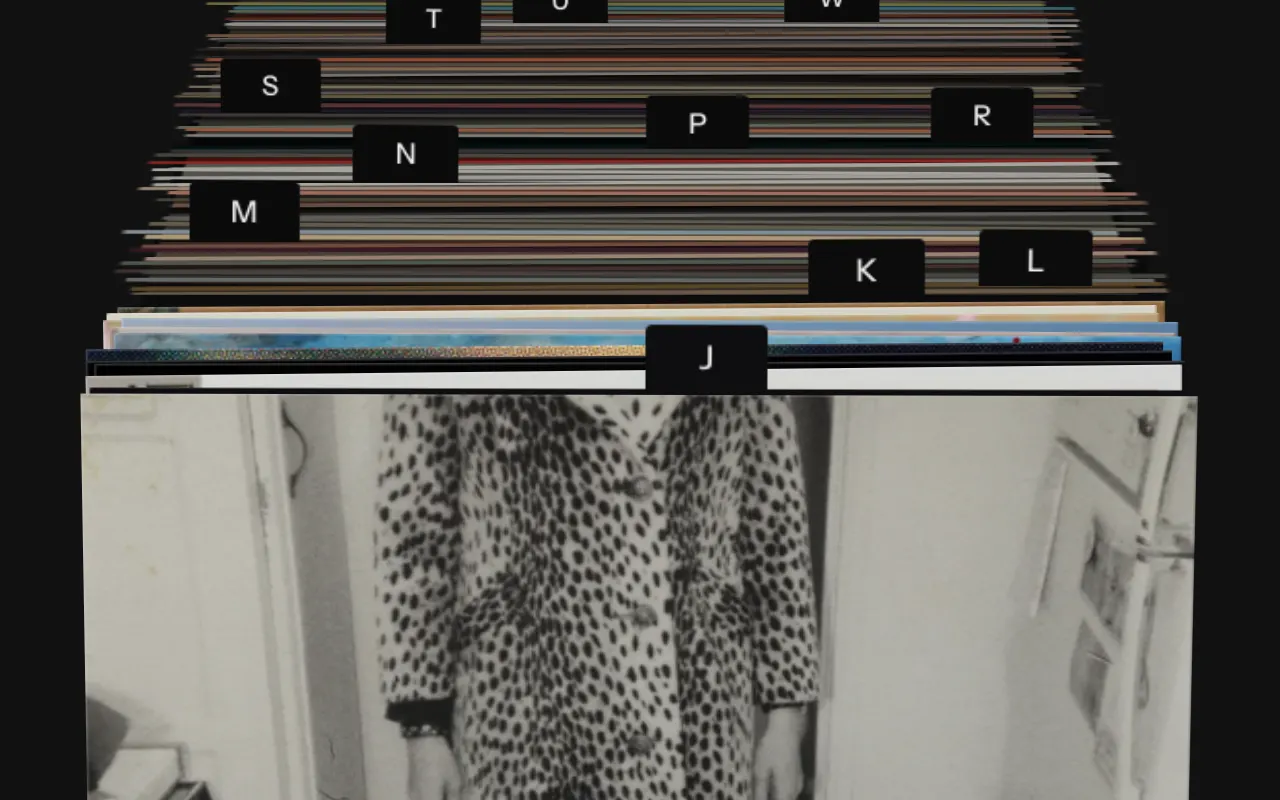
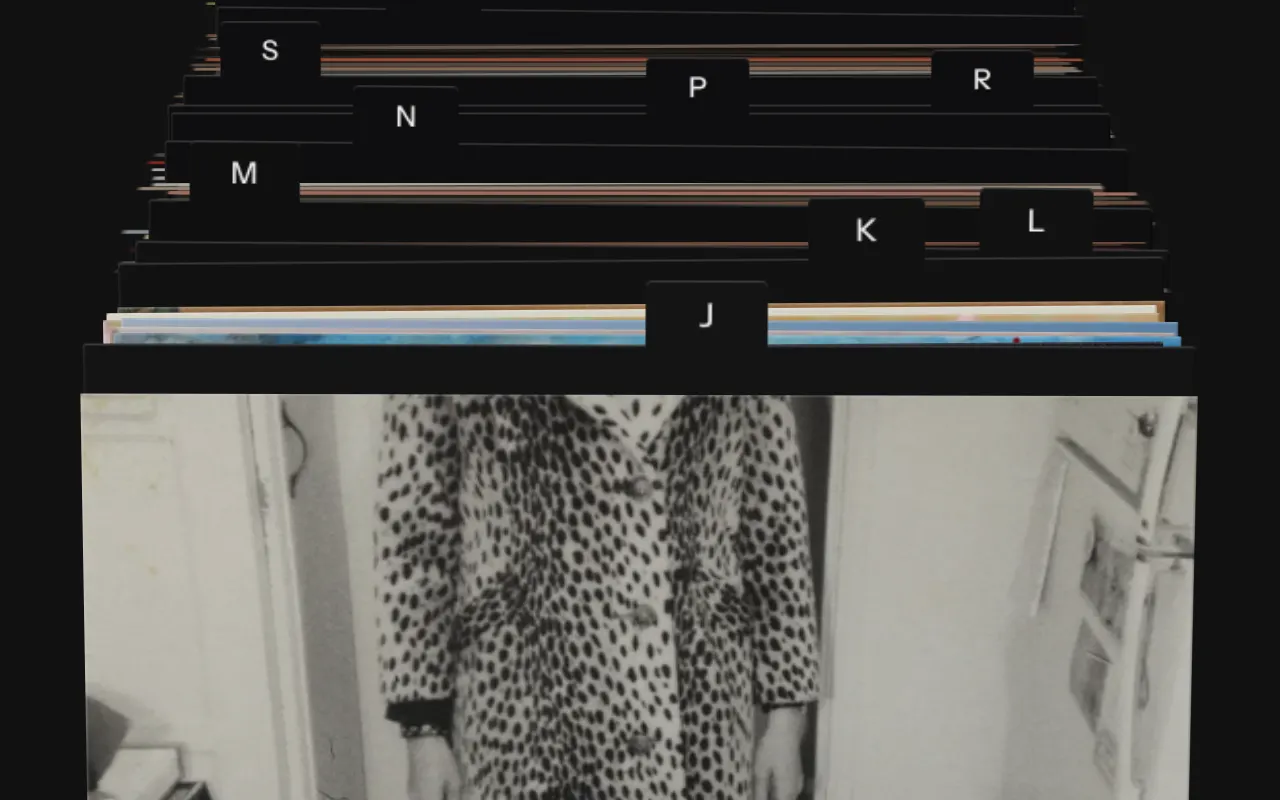
Records after Cosmos: dividers become real sheets; a sheet for how the mark moves

diff --git a/public/vinyl-logo-sheet.html b/public/vinyl-logo-sheet.html
@@ -1,0 +1,155 @@
+<!doctype html>
+<html lang="en">
+<head>
+<meta charset="utf-8">
+<meta name="viewport" content="width=device-width, initial-scale=1, viewport-fit=cover">
+<meta name="theme-color" content="#121212">
+<title>Records: the mark in motion</title>
+<link rel="icon" href="vinyl/records-icon.svg" type="image/svg+xml">
+<style>
+/* Sticker sheet for how the record mark (vinyl/records-logo.svg) behaves on vinyl-cosmos.html: while the crate loads (L),
+   and in the top bar (N). Every card is live. Picks stay in this browser. */
+@font-face{font-family:'Instrument Sans';src:url('/fonts/instrument-sans.woff2') format('woff2');font-weight:400 500;font-display:swap}
+:root{--bg:#121212;--fg:#fff;--m:#8e8e93;--line:rgba(255,255,255,.13);--soft:#232325;--ease:cubic-bezier(.22,1,.36,1)}
+*,*::before,*::after{box-sizing:border-box}*{margin:0;padding:0}
+html{background:var(--bg);color-scheme:dark}
+body{font-family:'Instrument Sans',system-ui,sans-serif;font-size:16px;line-height:1.4;color:var(--fg);-webkit-font-smoothing:antialiased;font-variant-numeric:tabular-nums}
+button{font:inherit;color:inherit;background:none;border:0;cursor:pointer}
+:focus-visible{outline:2px solid #fff;outline-offset:2px}
+.wrap{max-width:1400px;margin:0 auto;padding:40px 20px 80px}
+.top{display:flex;justify-content:space-between;align-items:flex-end;gap:16px;flex-wrap:wrap;margin-bottom:28px}
+h1{font-size:28px;font-weight:500;letter-spacing:-.01em}
+h2{font-size:18px;font-weight:500;margin:36px 0 4px}
+.sub{color:var(--m);margin-bottom:16px}
+.top p{color:var(--m);margin-top:4px;max-width:560px}
+.tools{display:flex;align-items:center;gap:8px}
+.picks{color:var(--m);font-size:14px;margin-right:6px}
+.tool{height:40px;padding:0 16px;border-radius:99px;border:1px solid var(--line);font-size:14px;transition:transform .3s var(--ease)}
+.tool:hover{background:var(--soft)}
+.tool:active{transform:scale(.99)}
+.grid{display:grid;grid-template-columns:repeat(auto-fill,minmax(min(100%,300px),1fr));gap:16px}
+.st{position:relative;border-radius:20px;border:1px solid var(--line);overflow:hidden;background:#161616}
+.stage{position:relative;height:220px;display:grid;place-items:center;background:var(--bg);border-bottom:1px solid var(--line);touch-action:none;user-select:none;-webkit-user-select:none}
+.meta{padding:14px 16px 16px;display:grid;gap:4px}
+.id{font-weight:500}.id b{font-weight:500;color:var(--m);margin-right:8px}
+.use{color:var(--m);font-size:14px}
+.star{position:absolute;top:10px;right:10px;z-index:2;width:40px;height:40px;border-radius:50%;display:grid;place-items:center;color:#d6d6d8;background:rgba(30,30,32,.8);font-size:17px;transition:transform .3s var(--ease)}
+.star:hover{color:#fff}
+.star:active{transform:scale(.96)}
+.st.picked{box-shadow:inset 0 0 0 2px #fff}.st.picked .star{color:#111;background:#fff}
+.mark{display:block;fill:#fff;overflow:visible}
+.mark path{transition:opacity .4s}
+.big{width:48px;height:48px}
+/* a little top bar: search, the mark, layout */
+.bar{position:absolute;top:14px;left:14px;right:60px;display:flex;align-items:center;justify-content:space-between;color:#d6d6d8}
+.bar .ic{width:20px;height:20px}
+.bar .lg{width:44px;height:44px;display:grid;place-items:center;border-radius:50%;cursor:pointer;color:#fff}
+.bar .lg:focus-visible{outline:2px solid #fff}
+.bar .mark{width:24px;height:24px}
+.drag{position:absolute;left:14px;right:14px;bottom:14px;height:96px;border-radius:14px;border:1px dashed var(--line);display:grid;place-items:center;color:var(--m);font-size:13px;cursor:grab}
+.drag:active{cursor:grabbing}
+.tiles{display:flex;gap:18px;align-items:center}
+.tile{width:64px;height:64px;border-radius:14px;display:grid;place-items:center}
+.tile .mark{width:44px;height:44px}
+.tab{display:flex;align-items:center;gap:8px;height:34px;padding:0 12px;border-radius:10px 10px 0 0;background:#2a2a2d;font-size:13px;color:#d6d6d8}
+.tab .mark{width:16px;height:16px}
+@media(prefers-reduced-motion:reduce){.mark,.mark *{animation:none!important;transition:none!important}}
+/* loaders */
+@keyframes spin{to{rotate:360deg}}
+.l1 .mark{animation:spin 1.8s linear infinite}
+@keyframes come{0%,10%{opacity:.14}40%,85%{opacity:1}100%{opacity:.14}}
+.l2 .mark path{animation:come 2.4s cubic-bezier(.4,0,.2,1) infinite;animation-delay:calc((3 - var(--i))*.18s)}
+@keyframes wave{0%,100%{opacity:.2}30%{opacity:1}60%{opacity:.2}}
+.l3 .mark path{animation:wave 1.6s ease-in-out infinite;animation-delay:calc((3 - var(--i))*.14s)}
+.l6 .mark .l{animation:partL 1.8s cubic-bezier(.45,0,.55,1) infinite}
+.l6 .mark .r{animation:partR 1.8s cubic-bezier(.45,0,.55,1) infinite}
+@keyframes partL{0%,100%{translate:0}50%{translate:-28px}}
+@keyframes partR{0%,100%{translate:0}50%{translate:28px}}
+@keyframes ripple{0%{opacity:1}40%{opacity:.25}100%{opacity:1}}
+.n5 .lg.go .mark path{animation:ripple .7s cubic-bezier(.4,0,.2,1) both;animation-delay:calc((3 - var(--i))*.07s)}
+.sr{position:absolute;width:1px;height:1px;overflow:hidden;clip:inset(50%);white-space:nowrap}
+</style>
+</head>
+<body>
+<main class="wrap">
+  <div class="top">
+    <div><h1>The mark in motion</h1><p>How the record mark moves while the crate loads, and what it does in the top bar. Star the ones you like, then copy your picks</p></div>
+    <div class="tools"><span class="picks" id="picks"></span><button class="tool" id="copy" type="button">Copy picks</button><button class="tool" id="clear" type="button">Clear</button></div>
+  </div>
+  <h2>Loading</h2><p class="sub">What shows while the covers come in</p>
+  <div class="grid" id="L"></div>
+  <h2>In the top bar</h2><p class="sub">Drag in the box to flip through the crate; hover and press the mark</p>
+  <div class="grid" id="N"></div>
+  <h2>Small sizes</h2><p class="sub">The browser tab and the home screen</p>
+  <div class="grid" id="F"></div>
+</main>
+<script>
+const $=(s,r=document)=>r.querySelector(s),$$=(s,r=document)=>[...r.querySelectorAll(s)];
+// the mark: two halves of three grooves each (outer to inner), and the label
+const P=['M157.145 0.0252864C160.03 -0.268345 162.5 2.03448 162.5 4.94184V20.1458C162.5 22.7538 160.496 24.9183 157.911 25.2131C83.1157 33.7382 25.0003 97.5464 25 175C25 252.453 83.1156 316.262 157.911 324.787C160.496 325.082 162.5 327.245 162.5 329.853V345.057C162.5 347.965 160.03 350.268 157.145 349.975C68.8822 340.985 0 266.079 0 175C0.000299011 83.9203 68.8823 9.01514 157.145 0.0252864Z',
+'M187.5 4.94282C187.5 2.03527 189.97 -0.268454 192.855 0.0252864C281.118 9.01516 350 83.9211 350 175.001C350 266.08 281.118 340.985 192.855 349.975C189.97 350.269 187.5 347.966 187.5 345.058V329.853C187.5 327.245 189.504 325.082 192.089 324.787C266.884 316.262 325 252.454 325 175.001C325 97.5471 266.884 33.7373 192.089 25.2121C189.504 24.9174 187.5 22.7538 187.5 20.1458V4.94282Z',
+'M157.017 50.6613C159.943 50.2375 162.5 52.5624 162.5 55.5269V70.8483C162.5 73.3761 160.618 75.495 158.133 75.9195C110.937 83.9772 75.0003 125.27 75 175C75 224.729 110.936 266.022 158.133 274.079C160.618 274.504 162.5 276.623 162.5 279.151V294.473C162.5 297.438 159.943 299.763 157.017 299.34C96.5016 290.577 50 238.246 50 175C50.0003 111.753 96.5018 59.4244 157.017 50.6613Z',
+'M187.5 55.5279C187.5 52.5633 190.057 50.2374 192.983 50.6613C253.498 59.4244 300 111.754 300 175.001C300 238.247 253.498 290.576 192.983 299.339C190.057 299.763 187.5 297.438 187.5 294.473V279.151C187.5 276.623 189.381 274.504 191.867 274.079C239.063 266.022 275 224.73 275 175.001C275 125.271 239.064 83.9772 191.867 75.9195C189.381 75.4951 187.5 73.3762 187.5 70.8483V55.5279Z',
+'M156.713 101.879C159.712 101.123 162.5 103.489 162.5 106.59V122.448C162.5 124.733 160.947 126.705 158.79 127.447C139.132 134.215 125 152.948 125 175C125 197.051 139.132 215.785 158.79 222.553C160.947 223.295 162.5 225.266 162.5 227.552V243.409C162.5 246.51 159.712 248.877 156.713 248.121C124.13 239.916 100 210.29 100 175C100 139.709 124.13 110.084 156.713 101.879Z',
+'M187.5 106.59C187.5 103.489 190.287 101.123 193.286 101.878C225.869 110.083 250 139.709 250 175.001C250 210.291 225.869 239.917 193.286 248.122C190.287 248.877 187.5 246.51 187.5 243.41V227.551C187.5 225.266 189.053 223.294 191.21 222.552C210.868 215.784 225 197.052 225 175.001C225 152.949 210.868 134.215 191.21 127.447C189.053 126.705 187.5 124.734 187.5 122.448V106.59Z',
+'M174.622 150.689C188.429 150.689 199.622 161.91 199.622 175.751C199.622 189.593 188.429 200.814 174.622 200.814C160.815 200.814 149.622 189.593 149.622 175.751C149.622 161.91 160.815 150.689 174.622 150.689ZM174.622 170.739C171.861 170.739 169.622 172.983 169.622 175.751C169.622 178.52 171.861 180.764 174.622 180.764C177.383 180.764 179.622 178.52 179.622 175.751C179.622 172.983 177.383 170.739 174.622 170.739Z'];
+const RING=[0,0,1,1,2,2,3],SIDE=['l','r','l','r','l','r','c'];
+const mark=(cls='')=>`<svg class="mark ${cls}" viewBox="0 0 350 350" aria-hidden="true">${P.map((d,k)=>`<path class="${SIDE[k]}" style="--i:${RING[k]}" d="${d}"${k===6?' fill-rule="evenodd"':''}/>`).join('')}</svg>`;
+const ICON={search:'<svg class="ic" viewBox="0 0 256 256" aria-hidden="true"><path fill="currentColor" d="M229.66,218.34l-50.07-50.06a88.11,88.11,0,1,0-11.31,11.31l50.06,50.07a8,8,0,0,0,11.32-11.32ZM40,112a72,72,0,1,1,72,72A72.08,72.08,0,0,1,40,112Z"/></svg>',
+  layout:'<svg class="ic" viewBox="0 0 256 256" aria-hidden="true"><path fill="currentColor" d="M216,72H40a16,16,0,0,0-16,16V200a16,16,0,0,0,16,16H216a16,16,0,0,0,16-16V88A16,16,0,0,0,216,72Zm0,128H40V88H216V200ZM48,48a8,8,0,0,1,8-8H200a8,8,0,0,1,0,16H56A8,8,0,0,1,48,48Z"/></svg>'};
+const L=[['L1','Spins at 33⅓','A record playing, and its grooves light from the label out as the covers come in. Today'],
+  ['L2','Grooves in','The grooves come up one at a time from the label out, then start again'],
+  ['L3','Sound','A soft wave runs out from the label through the grooves, like sound off a record'],
+  ['L4','Fills, still','No spin: the grooves light from the label out as the covers come in'],
+  ['L5','Spins up','Starts still and comes up to speed, the way a turntable does, then plays'],
+  ['L6','Opens','The two halves part and close again, slowly']];
+const N=[['N1','Still','The mark just sits there'],
+  ['N2','Turns with the crate','It turns a little as you flip, and stops when the crate does. Today'],
+  ['N3','Spins like a platter','Flip and it spins with you; let go and it coasts to a stop'],
+  ['N4','Opens on hover','The halves part a hair when the pointer is on it'],
+  ['N5','Plays on press','Pressing it sends a wave out through the grooves'],
+  ['N6','Turns on hover','An eighth of a turn when the pointer is on it, back when it leaves']];
+const F=[['F1','Tile, follows the system','A dark tile in light mode, a light one in dark mode. Today'],['F2','Just the mark','No tile: the mark alone, dark or light with the system']];
+const card=([id,n,use],body)=>`<article class="st" data-id="${id}"><div class="stage ${id.toLowerCase()}">${body}</div><button class="star" type="button" aria-pressed="false" aria-label="Pick ${id} ${n}">★</button><div class="meta"><span class="id"><b>${id}</b>${n}</span><p class="use">${use}</p></div></article>`;
+$('#L').innerHTML=L.map(c=>card(c,mark('big'))).join('');
+$('#N').innerHTML=N.map(c=>card(c,`<div class="bar">${ICON.search}<button class="lg" type="button" aria-label="Records">${mark()}</button>${ICON.layout}</div><div class="drag">Drag sideways to flip</div>`)).join('');
+$('#F').innerHTML=card(F[0],`<div class="tiles"><span class="tab">${mark()}Records</span><span class="tile" style="background:#161616;color:#f2f2f2">${mark().replace('class="mark ','style="fill:#f2f2f2" class="mark ')}</span><span class="tile" style="background:#f2f2f2">${mark().replace('class="mark ','style="fill:#161616" class="mark ')}</span></div>`)
+  +card(F[1],`<div class="tiles"><span class="tab">${mark()}Records</span><span class="tile" style="background:#fff">${mark().replace('class="mark ','style="fill:#161616" class="mark ')}</span><span class="tile" style="background:#121212">${mark()}</span></div>`);
+const reduce=matchMedia('(prefers-reduced-motion: reduce)').matches;
+// L1 and L4: a pretend load, the covers coming in over three seconds, then again
+function fills(el,spin){const ps=$$('path',el);let t0=performance.now();
+  (function f(t){const p=((t-t0)%4200)/3000;ps.forEach(q=>q.style.opacity=Math.max(.16,Math.min(1,Math.min(p,1)*4-3+ +q.style.getPropertyValue('--i'))));requestAnimationFrame(f)})(t0)}
+fills($('.l1'));fills($('.l4'));
+// L5: comes up to 33⅓ (a turn in 1.8s) over a second and a half, plays, stops, again
+{const m=$('.l5 .mark');let a=0,last=performance.now(),t0=last;(function f(t){const dt=(t-last)/1000;last=t;const k=((t-t0)%7000)/1000,w=k<5?Math.min(1,k/1.5):Math.max(0,1-(k-5)/1.2);
+  a+=dt*200*w*w*(3-2*w);m.style.rotate=reduce?'':a.toFixed(2)+'deg';requestAnimationFrame(f)})(last)}
+// the bar: a pretend crate that the box flips, on a critically damped spring, and each mark answers it its own way
+$$('#N .st').forEach(st=>{
+  const id=st.dataset.id,m=$('.bar .mark',st),lg=$('.lg',st),dz=$('.drag',st);
+  let pos=0,aim=0,vel=0,drag=null,spin=0,sv=0,hov=0,hv=0,hx=0,last=performance.now();
+  dz.addEventListener('pointerdown',e=>{drag={x:e.clientX,p:aim};dz.setPointerCapture(e.pointerId)});
+  dz.addEventListener('pointermove',e=>{if(drag)aim=Math.round(drag.p-(e.clientX-drag.x)/24)});
+  const up=()=>drag=null;dz.addEventListener('pointerup',up);dz.addEventListener('pointercancel',up);
+  lg.addEventListener('pointerenter',()=>hov=1);lg.addEventListener('pointerleave',()=>hov=0);
+  lg.addEventListener('focus',()=>hov=1);lg.addEventListener('blur',()=>hov=0);
+  lg.addEventListener('click',()=>{if(id==='N5'){lg.classList.remove('go');void lg.offsetWidth;lg.classList.add('go')}aim=0});
+  (function f(t){const dt=Math.min(.032,(t-last)/1000);last=t;
+    vel+=(-220*(pos-aim)-29.7*vel)*dt;pos+=vel*dt; // K 220, critically damped
+    hv+=(-300*(hx-hov)-34.6*hv)*dt;hx+=hv*dt;
+    if(id==='N2')m.style.rotate=(pos*-24).toFixed(1)+'deg';
+    if(id==='N3'){sv+=(-vel*90-sv)*Math.min(1,dt*(Math.abs(vel)>.05?8:1.2));spin+=sv*dt;m.style.rotate=spin.toFixed(1)+'deg'}
+    if(id==='N4'){$$('.l',m).forEach(p=>p.style.translate=(-hx*22).toFixed(2)+'px 0');$$('.r',m).forEach(p=>p.style.translate=(hx*22).toFixed(2)+'px 0')}
+    if(id==='N6')m.style.rotate=(hx*45).toFixed(1)+'deg';
+    requestAnimationFrame(f)})(last);
+});
+// picks
+const KEY='records-logo-picks';let picks=new Set();try{picks=new Set(JSON.parse(localStorage.getItem(KEY))||[])}catch{}
+const save=()=>{try{localStorage.setItem(KEY,JSON.stringify([...picks]))}catch{}};
+function show(){$$('.st').forEach(s=>{const on=picks.has(s.dataset.id);s.classList.toggle('picked',on);$('.star',s).setAttribute('aria-pressed',on)});$('#picks').textContent=[...picks].sort().join(', ')}
+$$('.st').forEach(s=>{$('.star',s).onclick=()=>{const id=s.dataset.id;picks.has(id)?picks.delete(id):picks.add(id);save();show()}});
+$('#copy').onclick=()=>{navigator.clipboard?.writeText([...picks].sort().join(', ')).catch(()=>{});$('#copy').textContent='Copied';setTimeout(()=>$('#copy').textContent='Copy picks',1200)};
+$('#clear').onclick=()=>{picks.clear();save();show()};
+show();
+</script>
+</body>
+</html>

diff --git a/public/index.html b/public/index.html
@@ -798,11 +798,12 @@ html.phone .ed{bottom:calc(env(safe-area-inset-bottom) + 88px)}
 /* tabbed dividers: one stands just behind the record before each letter, all the way back, its tab above the tops and
    staggered across like a real crate's; it leaves as you flip past it, and a tab turns to its letter. Styles D1–D8 come from
    vinyl-dividers-sheet.html (?dv=N); each fades darker the further back it stands (--dk, set as it moves) */
-.dv{--dvc:#0e0e0f;--dvt:#ededed;--tw:11%;--th:calc(var(--S)*.062);--tr:3px;--dvf:500 calc(var(--S)*.03)/1 'Instrument Sans',sans-serif;
+.dv{--dvc:#141415;--dvt:#ededed;--rise:calc(var(--S)*.04);--tw:11%;--th:calc(var(--S)*.062);--tr:3px;--dvf:500 calc(var(--S)*.03)/1 'Instrument Sans',sans-serif;
   position:absolute;left:calc(var(--S)/-2);bottom:0;width:var(--S);height:var(--S);transform-origin:50% 100%;pointer-events:none;transition:opacity .25s}
 .dv i,.dv span{background:linear-gradient(rgb(0 0 0/var(--dk,0)) 0 0),var(--dvc)}
-.dv i{position:absolute;inset:0 .5%;border-radius:1px}
-.dv span{position:absolute;bottom:calc(100% - 1px);left:var(--tx);width:var(--tw);height:var(--th);display:grid;place-items:center;border-radius:var(--tr) var(--tr) 0 0;
+/* the sheet stands a little taller than the records, so it shows between them, its edge catching the light; the tab is cut from it */
+.dv i{position:absolute;inset:calc(var(--rise)*-1) 0 0;border-radius:2px 2px 1px 1px;box-shadow:inset 0 1px 0 rgb(255 255 255/.16),inset 1px 0 0 rgb(255 255 255/.06),inset -1px 0 0 rgb(0 0 0/.3)}
+.dv span{position:absolute;bottom:calc(100% + var(--rise) - 1px);box-shadow:inset 0 1px 0 rgb(255 255 255/.16);left:var(--tx);width:var(--tw);height:var(--th);display:grid;place-items:center;border-radius:var(--tr) var(--tr) 0 0;
   color:var(--dvt);font:var(--dvf);pointer-events:auto;cursor:pointer}
 .dv.off,.crate.lifted .dv{opacity:0}
 .dv.off span,.crate.lifted .dv span{pointer-events:none}

diff --git a/public/vinyl-dividers-sheet.html b/public/vinyl-dividers-sheet.html
@@ -52,7 +52,7 @@ h1{font-size:28px;font-weight:500;letter-spacing:-.01em}
 <script>
 const $=(s,r=document)=>r.querySelector(s),$$=(s,r=document)=>[...r.querySelectorAll(s)];
 const ALL=[
-  ['D1','Matte black','One black card, the tab cut from it, a small white letter. Darker the further back it stands'],
+  ['D1','Matte black','A black sheet a little taller than the records, the tab cut from its top, a small white letter. Darker the further back it stands'],
   ['D2','Kraft','Record-store cardboard with the letter stamped in mono'],
   ['D3','White index cards','Off-white cards, black letters: the easiest to read from across the room'],
   ['D4','Smoked acrylic','Clear plastic with a faint edge, white letters'],
